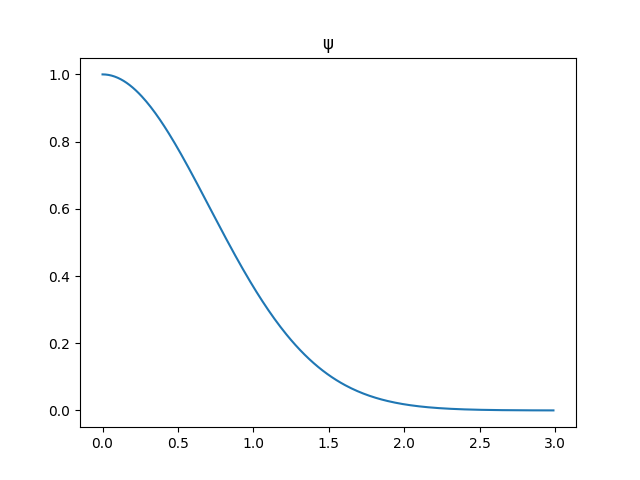
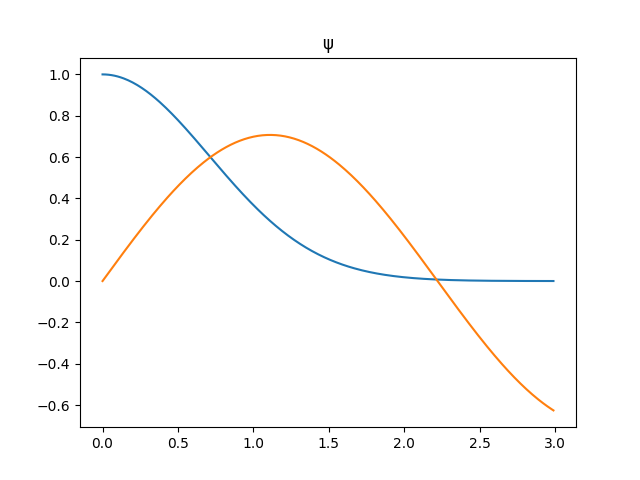
SUCCESSFUL: Ensured BOTH Particle In Box and QHO work

diff --git a/tester/main.cpp b/tester/main.cpp
@@ -12,11 +12,18 @@ double U(double x){
 	return 2 * x * x;
 }
 
+double USimple(double x){
+	return 0;
+}
+
 int main() {
 	try {
-		
-		wavefunction psi(U);
-		psi.solve(0, 1, 0);
+
+		wavefunction psiQHO(U);
+		psiQHO.solve(0, 1, 0);
+
+		wavefunction psiPIB(USimple);
+		psiPIB.solve(0, 0, 1);
 
 		return 0;
 
